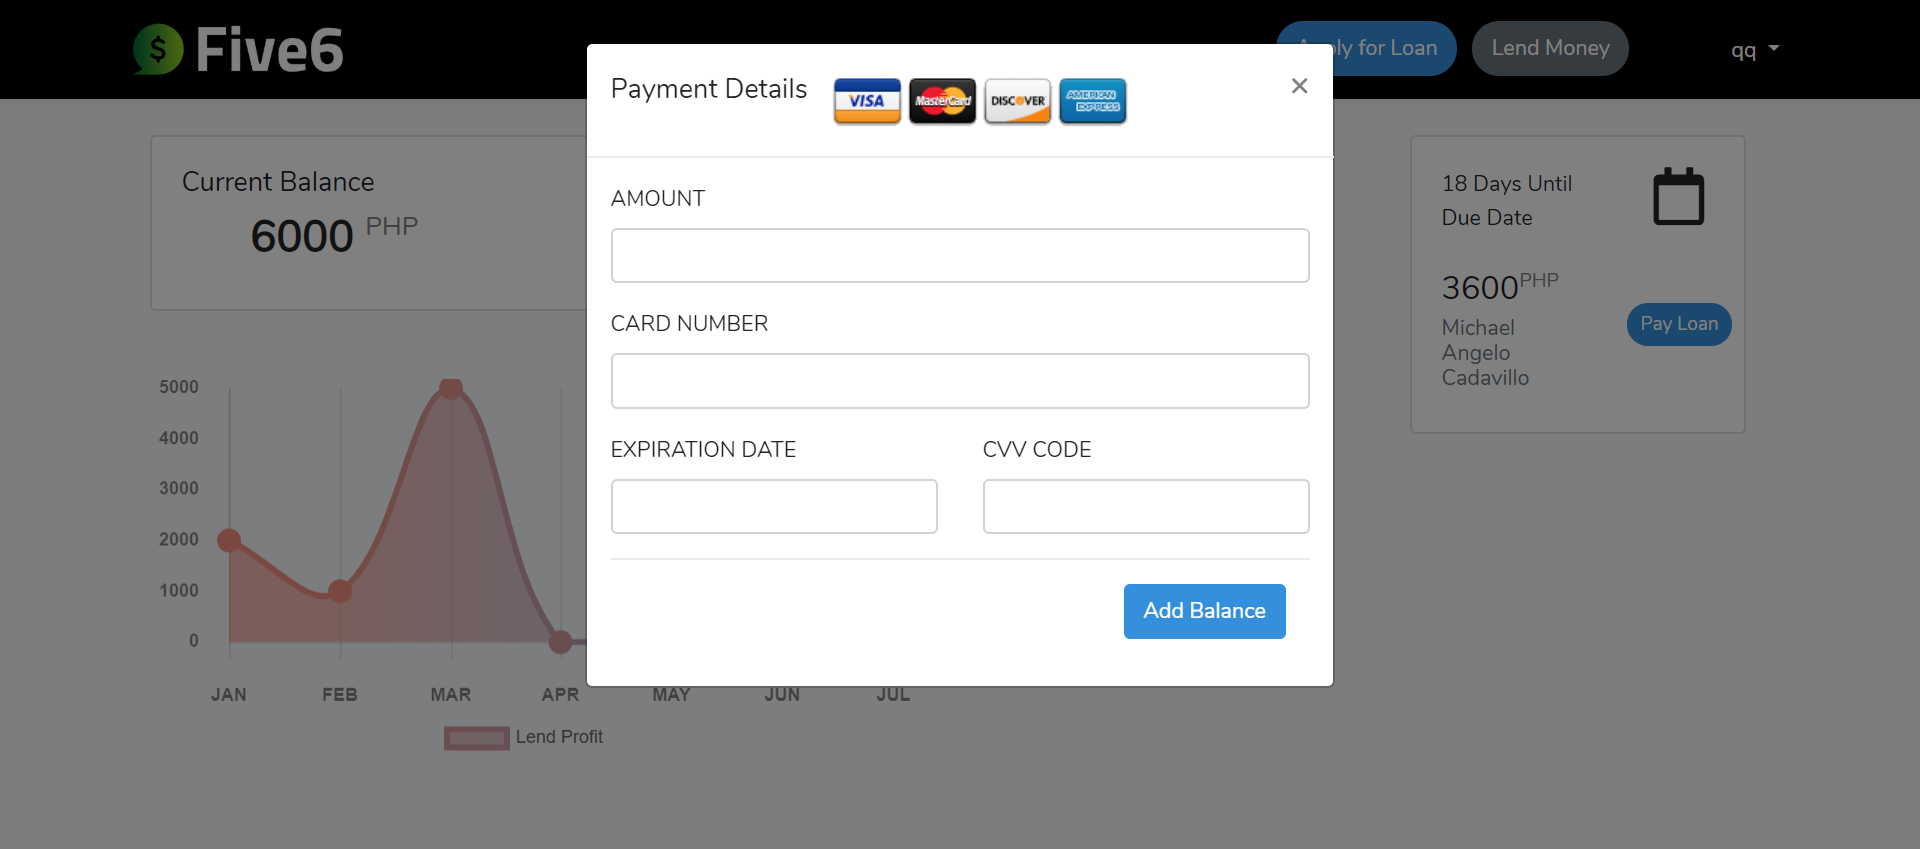
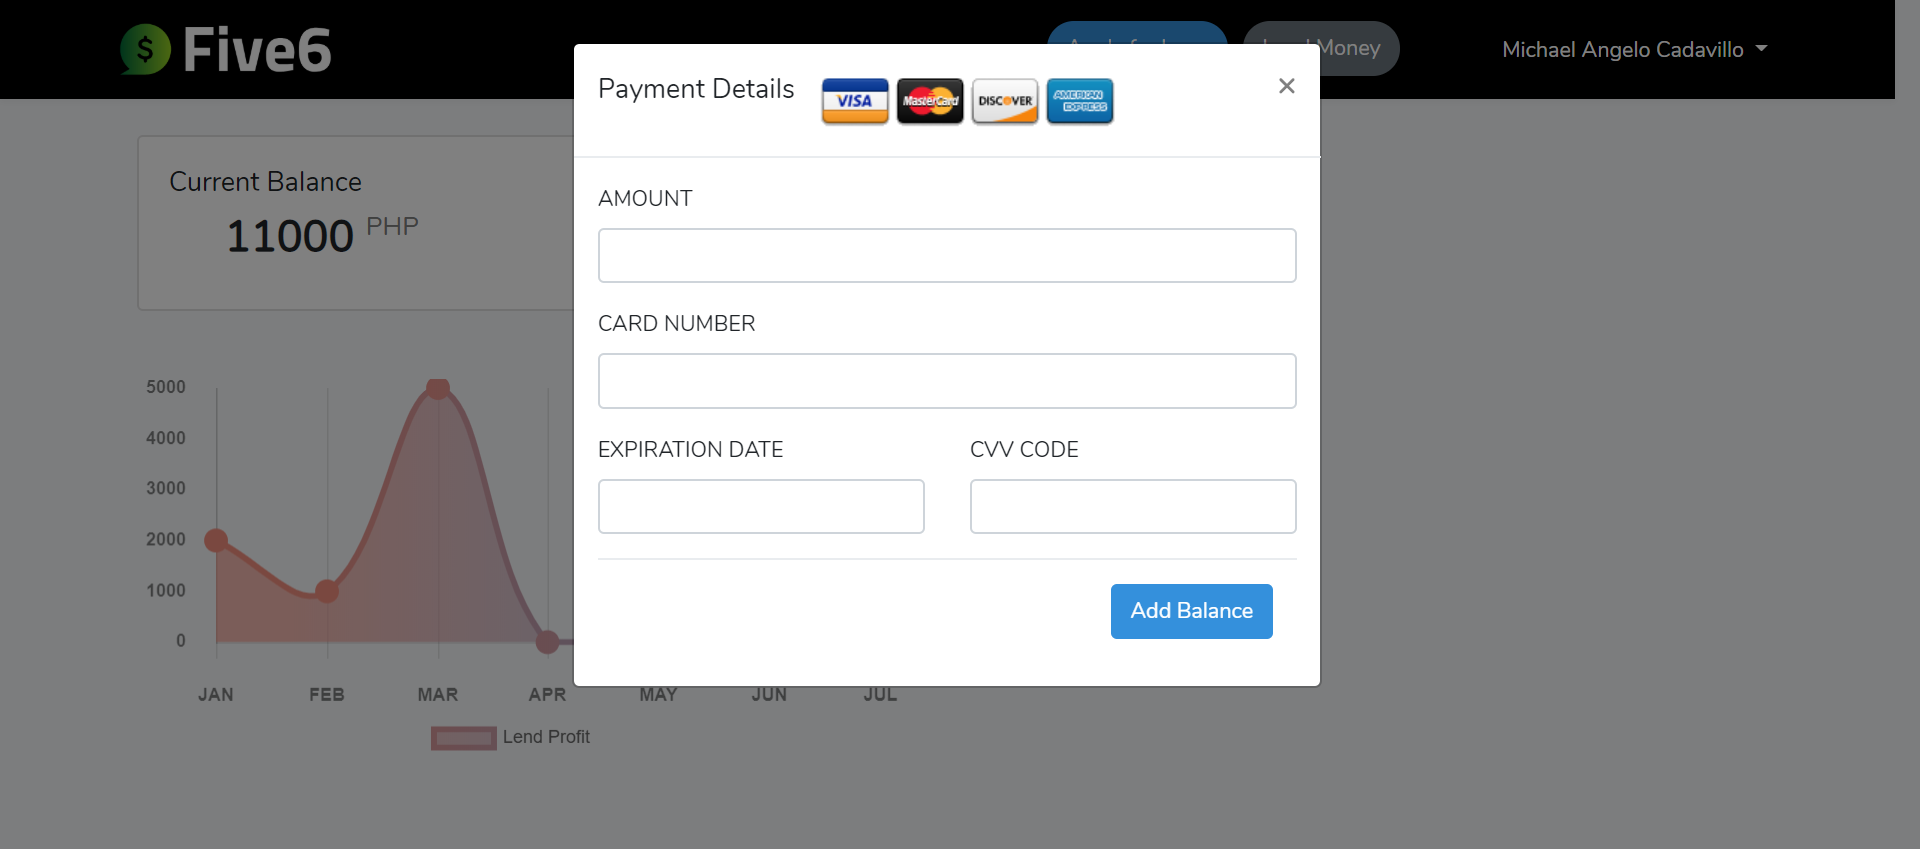
updated code for turn on off lending

diff --git a/testScripts/turn_on_off_lending/turn_on_off_lending.py b/testScripts/turn_on_off_lending/turn_on_off_lending.py
@@ -7,16 +7,19 @@ driver.get("http://127.0.0.1:8000/login")
 # login
 username = driver.find_element_by_name("email")
 username.clear()
-username.send_keys("qq@qq")
+username.send_keys("michael.cadavillo@gmail.com")
 password = driver.find_element_by_name("password")
 password.clear()
 password.send_keys("qwerqwer")
+driver.save_screenshot("login.png")
 password.send_keys(Keys.RETURN)
 
 # go to lend money page
 lendMoneyButton = driver.find_element_by_name("lendMoneyButton")
 lendMoneyButton.click()
+driver.save_screenshot("clickLendMoneyButton.png")
 
 # click Turn on/off lending button
 lendingStatus = driver.find_element_by_name("lendingStatus")
 lendingStatus.click()
+driver.save_screenshot("turnOnOffLending.png")

diff --git a/testScripts/balance_input_format/balance_input_format.py b/testScripts/balance_input_format/balance_input_format.py
@@ -8,7 +8,7 @@ driver.get("http://127.0.0.1:8000/login")
 # login
 username = driver.find_element_by_name("email")
 username.clear()
-username.send_keys("qq@qq")
+username.send_keys("michael.cadavillo@gmail.com")
 password = driver.find_element_by_name("password")
 password.clear()
 password.send_keys("qwerqwer")
